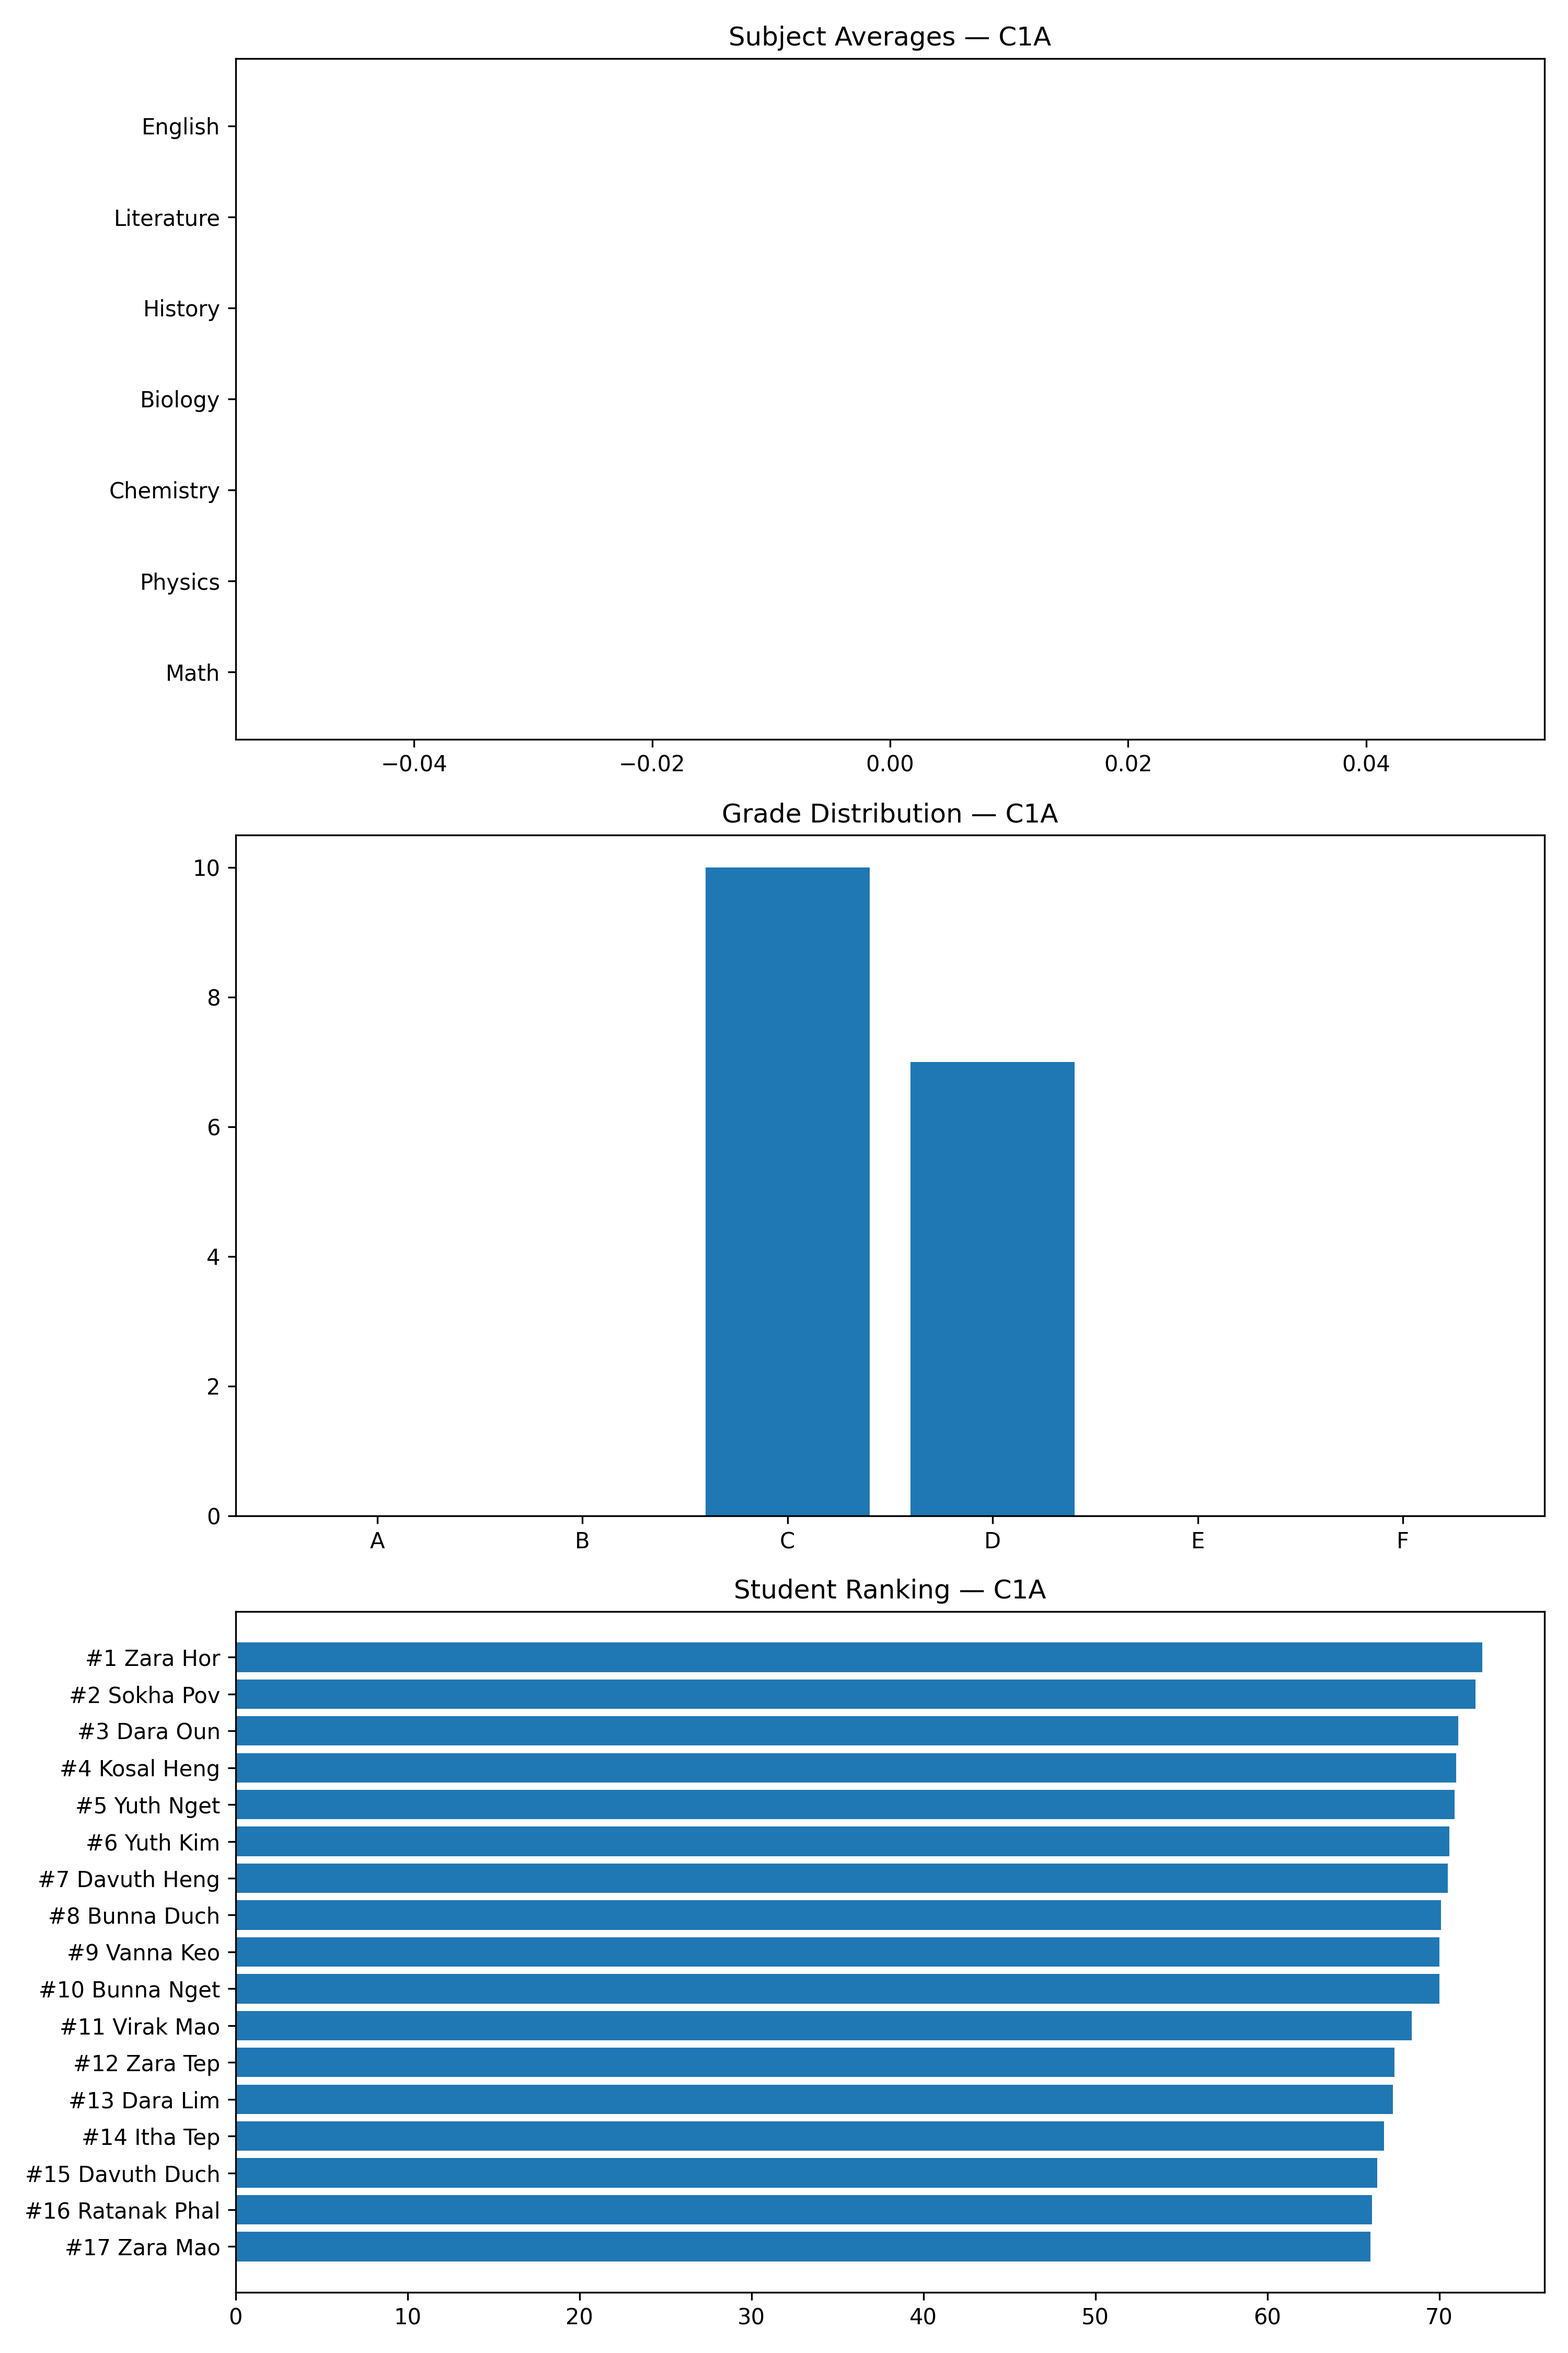
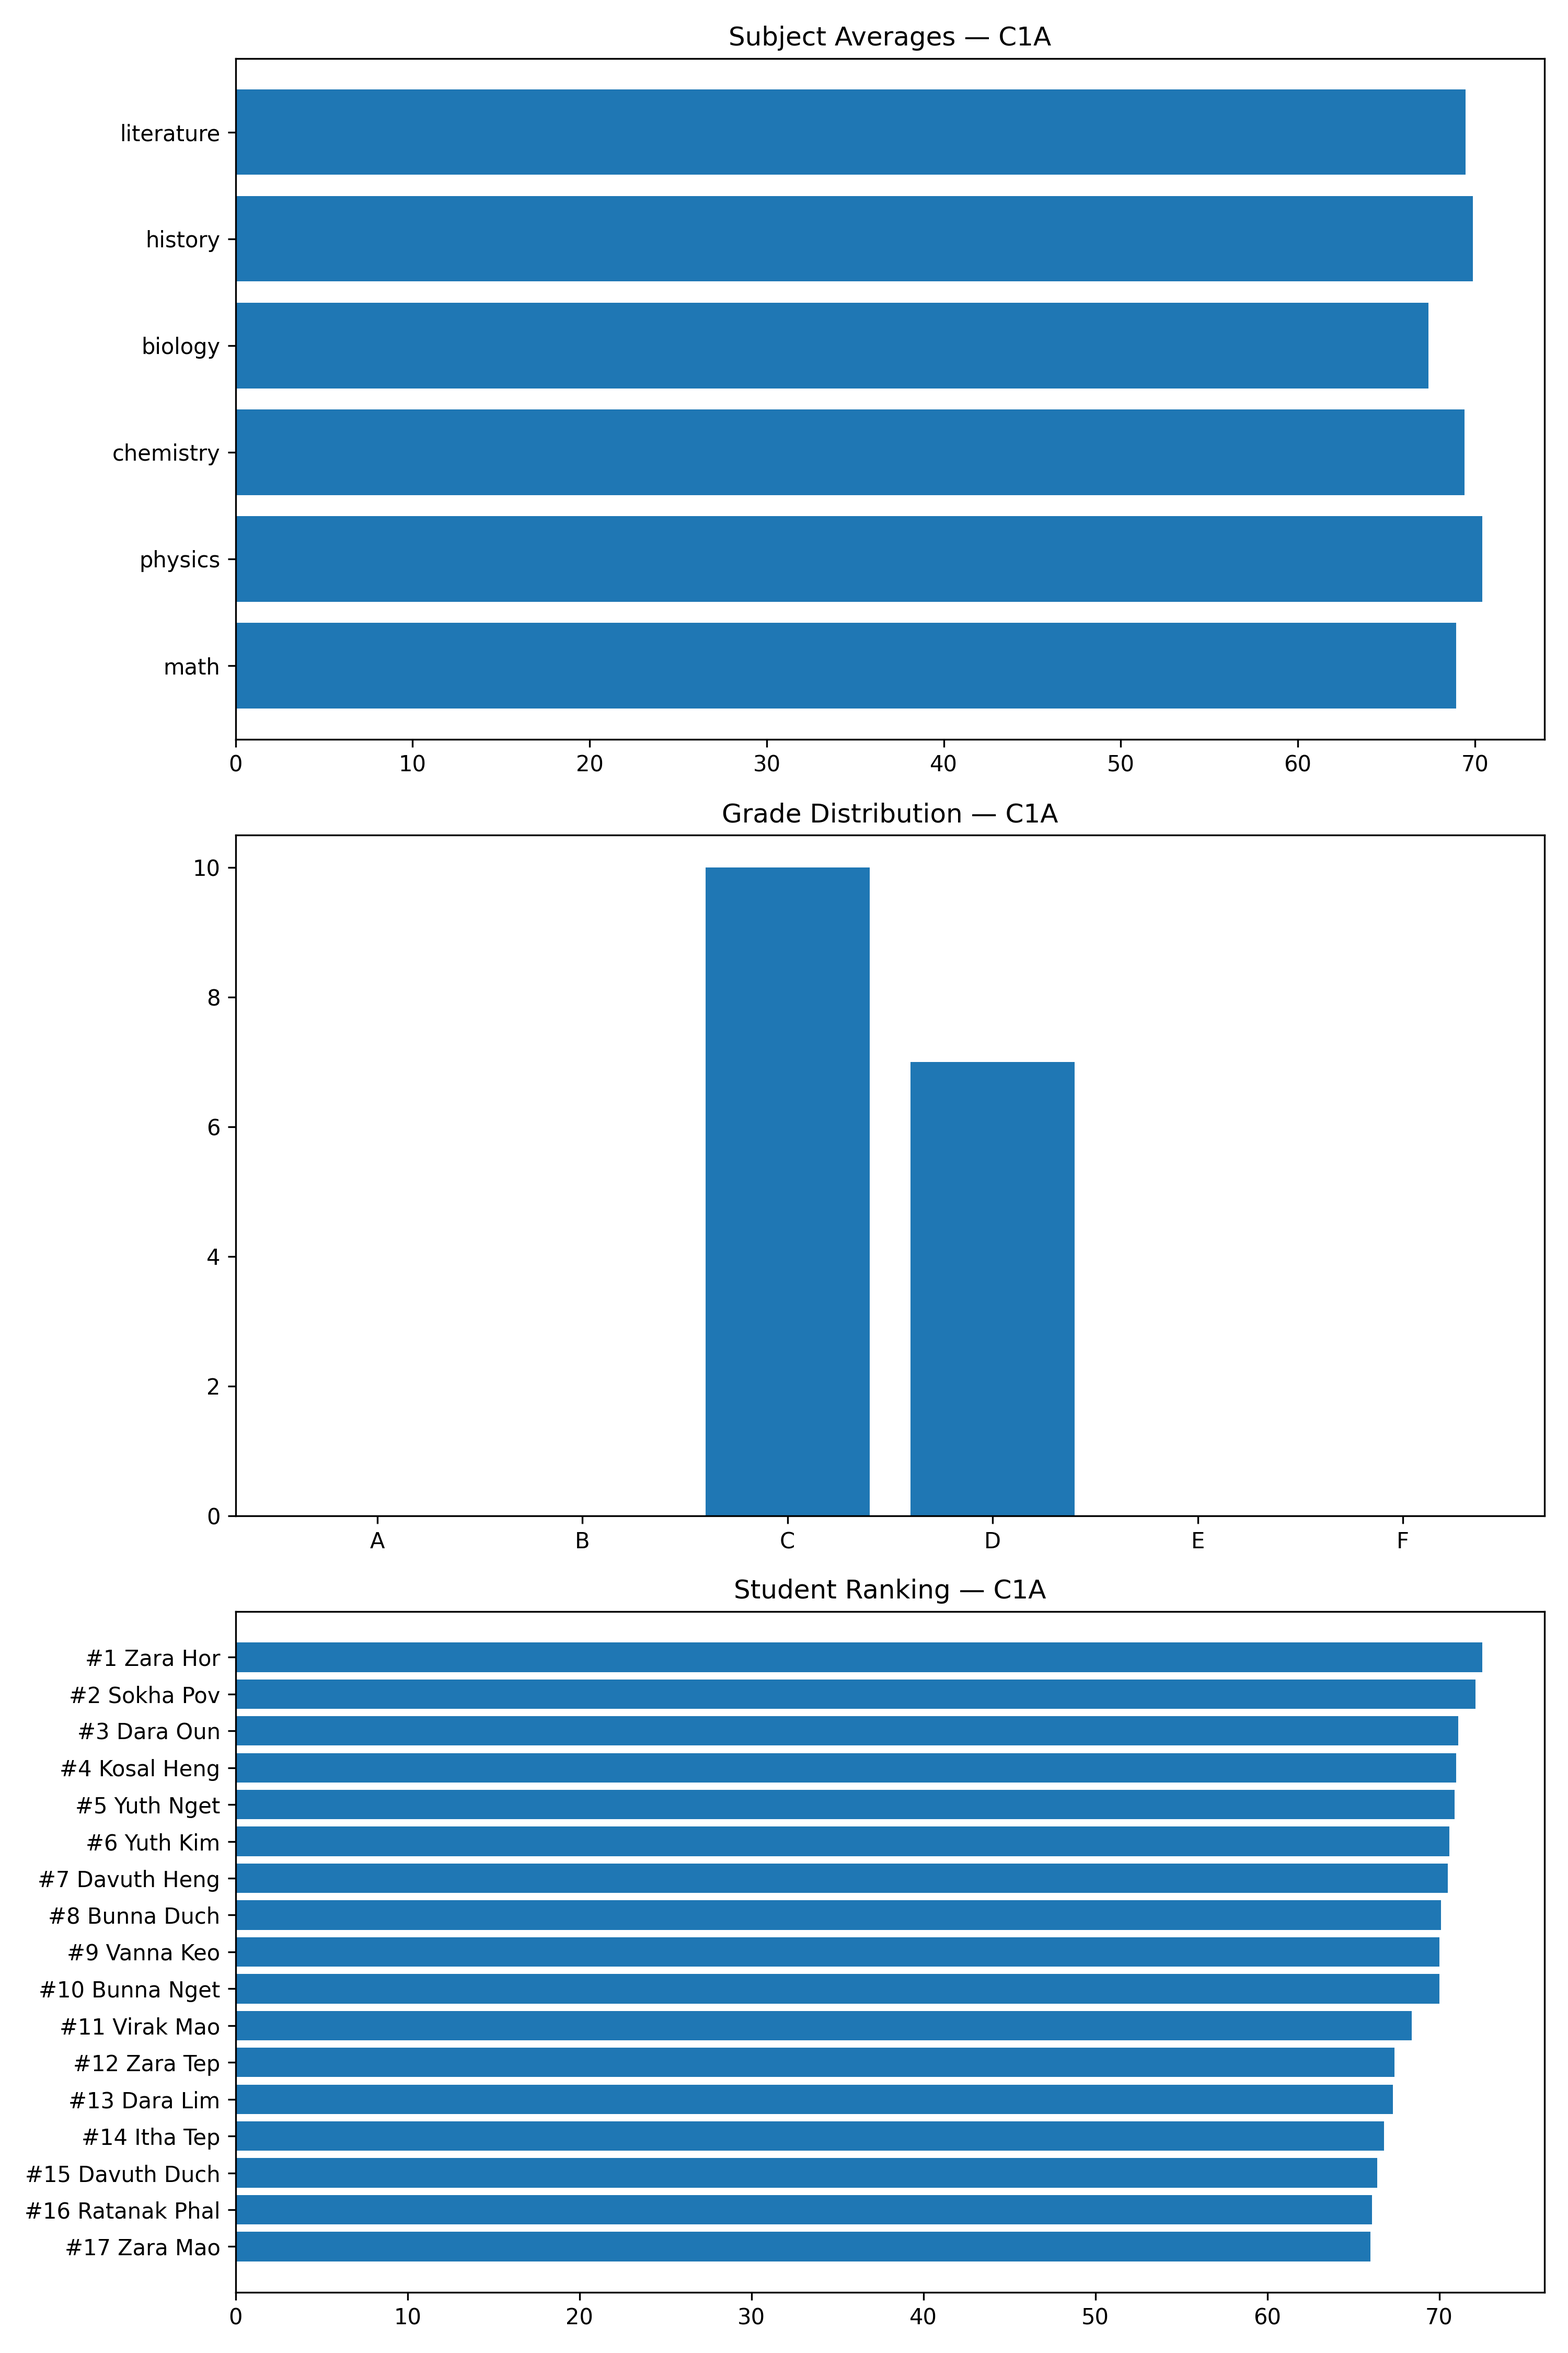
Complete plot in data manager annaul and fix annaul to have dynamic year

Changed region(s): [[0.062, 0.0311, 0.961, 0.3111]]

diff --git a/src/database/data_manager.py b/src/database/data_manager.py
@@ -308,10 +308,118 @@ class DataManager:
 
         print(f"Saved to: {save_path}")
         
-    def generate_annaul_report():
-        pass
-    
-    
+    def generate_annaul_report(self):
+        import matplotlib
+        matplotlib.use('Agg') 
+        import matplotlib.pyplot as plt
+        import os
+       
+        classrooms=self.load_classroom()
+        if not classrooms:
+            print("No classrooms found.")
+            return
+        all_students=[s for c in classrooms for s in c.students]
+        if not all_students:
+            print("No student found.")
+            return
+        subjects = list(all_students[0].scores.keys()) if all_students else []
+        active_classes = [c for c in classrooms if c.students]
+            # Chart 1: group classes by year, find highest avg class per year
+        from collections import defaultdict
+        classes_by_year = defaultdict(list)
+        for c in active_classes:
+            classes_by_year[c._year].append(c)
+
+        year_labels    = []   # x axis — each year
+        top_class_avgs = []   # y axis — highest class avg that year
+        top_class_ids  = []   # label — which class was the best
+        for year,classes in sorted(classes_by_year.items()):
+            best=max(classes,key=lambda c: c.class_average())
+            year_labels.append(year)
+            top_class_avgs.append(best.class_average())
+            top_class_ids.append(best.class_id)
+        # chart 2 top performer per class
+        top_scores = []
+        top_labels = []
+        for c in active_classes:
+            top = max(c.students,key=lambda s:s.overall_average())
+            top_scores.append(top.overall_average())
+            top_labels.append(f"{c.class_id}-{top.name}")
+        #chart 3 grade distribution school-wide
+        grade_labels = ["A", "B", "C", "D", "E", "F"]
+        grade_counts = {g: 0 for g in grade_labels}
+        for s in all_students:
+            grade_counts[s.grade_letter()] += 1
+        
+        #implement and figure all plots
+        fig, axs = plt.subplots(3,1, figsize=(12,18))
+        fig.suptitle("Annual School Report — 2024/2025", fontsize=15, fontweight="bold")
+        #chart 1 highest class per year
+        axs[0].bar(year_labels, top_class_avgs,
+               color=[self._score_color(v) for v in top_class_avgs])
+        axs[0].set_ylim(0, 100)
+        axs[0].set_title("Highest Performing Class per Year")
+        axs[0].set_ylabel("Average Score")
+        axs[0].axhline(y=50, color="red", linestyle="--", label="Pass Mark")
+        axs[0].legend()
+        # Label each bar with class ID and score
+        for i, (v, cid) in enumerate(zip(top_class_avgs, top_class_ids)):
+            axs[0].text(i, v + 1, f"{cid}\n{v:.1f}", ha="center", fontsize=9, fontweight="bold")
+        # ── Chart 2: Top performer per class (horizontal bar) ─────────────────
+        axs[1].barh(range(len(top_labels)), top_scores,
+                    color=[self._score_color(v) for v in top_scores])
+        axs[1].set_yticks(range(len(top_labels)))
+        axs[1].set_yticklabels(top_labels, fontsize=9)
+        axs[1].invert_yaxis()
+        axs[1].axvline(x=50, color="red",   linestyle="--", label="Pass Mark")
+        axs[1].axvline(x=70, color="green", linestyle=":",  label="Good (70)")
+        axs[1].set_xlim(0, 100)
+        axs[1].set_title("Top Performer per Class")
+        axs[1].set_xlabel("Overall Average Score")
+        axs[1].legend()
+        for i, v in enumerate(top_scores):
+            axs[1].text(v + 1, i, f"{v:.1f}", va="center", fontsize=8, fontweight="bold")
+
+        # ── Chart 3: Grade distribution (vertical bar) ────────────────────────
+        counts     = [grade_counts[g] for g in grade_labels]
+        grd_colors = ["#2ecc71", "#27ae60", "#f1c40f", "#e67e22", "#e74c3c", "#c0392b"]
+        axs[2].bar(grade_labels, counts, color=grd_colors)
+        axs[2].set_title("School-wide Grade Distribution")
+        axs[2].set_ylabel("Number of Students")
+        for i, c in enumerate(counts):
+            if c > 0:
+                axs[2].text(i, c + 0.1, str(c), ha="center", fontsize=9, fontweight="bold")
+        # check student make sure graph is corrected by meng seang
+        # total = 0
+        # for c in classrooms:
+        #     print(f"\n--- {c.class_id} ({len(c.students)} students) ---")
+        #     print(f"  {'ID':<10} {'Name':<22} {'Avg':>6} {'Grade'}")
+        #     print(f"  {'-'*45}")
+        #     for s in c.students:
+        #         avg = s.overall_average()
+        #         grade = s.grade_letter()
+        #         print(f"  {s.person_id:<10} {s.name:<22} {avg:>6.1f} {grade}")
+        #     total += len(c.students)       
+        # print(f"\n{'='*45}")
+        # print(f"Total: {total} students across {len(classrooms)} classes")
+        plt.tight_layout()
+        return self._save_plot(plt, "annual", "annual_report.png") 
+    def _score_color(self, value):
+        if value >= 70:
+            return "green"
+        elif value >= 50:
+            return "orange"
+        return "red"      
+    def _save_plot(self, plt, folder, filename):
+        import os
+        save_dir = os.path.join("outputs", "graphs", folder)
+        os.makedirs(save_dir, exist_ok=True)
+        path = os.path.join(save_dir, filename)
+        plt.savefig(path, dpi=300, bbox_inches="tight")
+        plt.close()
+        print(f"Saved to: {path}")
+        return path     
+        
 if __name__ == "__main__":
     dm = DataManager("./data")
 
@@ -346,6 +454,7 @@ if __name__ == "__main__":
         print(i.scores)
 
     dm.generate_class_report_plot("C1A")
+    dm.generate_annaul_report()
 
 
     

diff --git a/src/report/annual.py b/src/report/annual.py
@@ -11,15 +11,19 @@ class Annual(Report):
 
     def generate_report(self):
         sep = "=" * 60
-        line = "_" * 70
+
+        # Collect all unique years from all classrooms
+        years = sorted(set(c._year for c in self._classrooms if c._year))
+        year_label = ", ".join(years) if years else "N/A"
+
         all_students = [s for cls in self._classrooms for s in cls.students]
-        total = len(all_students)
+        total  = len(all_students)
         passed = sum(1 for s in all_students if s.is_passing())
         overall = round(sum(s.overall_average() for s in all_students) / total, 2) if total else 0
 
         self._lines = [
             sep,
-            "       ANNUAL SCHOOL REPORT — 2024/2025",
+            f"       ANNUAL SCHOOL REPORT — {year_label}",  # shows all years
             sep,
             f"  Total Students  : {total}",
             f"  Passed          : {passed}  ({passed / total * 100:.1f}%)" if total else "  Passed: 0",
@@ -34,9 +38,10 @@ class Annual(Report):
         for cls in self._classrooms:
             if not cls.students:
                 continue
-            top = max(cls.students)
+            # Bug 1 fixed: max() needs a key, otherwise it uses __lt__ which may not exist
+            top = max(cls.students, key=lambda s: s.overall_average())
             self._lines.append(
-                f"  {cls.getClassId:<8} {len(cls.students):>9} "
+                f"  {cls.class_id:<8} {len(cls.students):>9} "
                 f"{cls.class_average():>7.1f} {cls.pass_rate():>6.1f}% "
                 f"  {top.name:<22} ({top.overall_average():.1f})"
             )
@@ -48,28 +53,39 @@ class Annual(Report):
             grade_dist[g] = grade_dist.get(g, 0) + 1
 
         self._lines += [sep, "  GRADE DISTRIBUTION", "  " + "-" * 35]
-        for grade in ["A+", "A", "B", "C", "D", "F"]:
+
+        for grade in ["A", "B", "C", "D", "E", "F"]:
             count = grade_dist.get(grade, 0)
-            bar = "█" * count
-            self._lines.append(f"  {grade:<4}  {count:>3}  {bar}")
+            self._lines.append(f"  {grade:<4}  {count:>3} ")
 
         self._lines.append(sep)
-        return "\n".join(self._lines)  # returns the result
+        return "\n".join(self._lines)
 
-    def content_report(self):  #properly indented inside class
+    def content_report(self):
         if not self._lines:
             self.generate_report()
         return "\n".join(self._lines)
 
-    def save_to_file(self, file_path):  # properly indented inside class
-        pass
+    def save_to_file(self, filepath=None):
+        import os
+        years = sorted(set(c._year for c in self._classrooms if c._year))
+        year_label = "_".join(years) if years else "unknown"
+
+        if filepath is None:
+            filepath = f"./outputs/reports/annual_report_{year_label}.txt"
+
+        os.makedirs(os.path.dirname(filepath), exist_ok=True)
+        content = self.content_report()
+        with open(filepath, "w", encoding="utf-8") as f:
+            f.write(content)
+        print(f"Annual report saved to: {filepath}")
 
 
 if __name__ == '__main__':
-    myStudent = Student("devit", "s002", "Male", "23/07/2006", "devit@gmail.com", "ci0007", 2)
-    demo = Classroom("ci001", "10a", "a001", "t004", 30, "2025-2026")
+    myStudent = Student("Devit", "s002", "Male", "23/07/2006", "devit@gmail.com", "ci0007", 2)
+    demo  = Classroom("ci001", "10a", "a001", "t004", 30, "2025-2026")
     demo2 = Classroom("ci002", "10a", "a001", "t004", 30, "2025-2026")
-    demo.addStudent(myStudent)
-
-    test_report_annual = Annual([demo, demo2])
-    print(test_report_annual.generate_report())  # ✅ now prints actual content
+    demo.add_student(myStudent)
+    test = Annual([demo, demo2])
+    print(test.generate_report())
+    test.save_to_file()

diff --git a/src/model/classroom.py b/src/model/classroom.py
@@ -34,12 +34,12 @@ class Classroom:
         if not isinstance(student, Student):
             raise TypeError("Only Student instances allowed")
         if student in self._students:
-            raise ValueError(f"Student {student.student_id} already in class")
+            raise ValueError(f"Student {student.person_id} already in class")
         self._students.append(student)  # otherwise append
 
     def remove_student(self, student_id):
         sizestudents = len(self._students)
-        self._students = [s for s in self._students if s.student_id != student_id]
+        self._students = [s for s in self._students if s.person_id != student_id]
         return (
             len(self._students) < sizestudents
         )  # true if remove student from the class succeed
